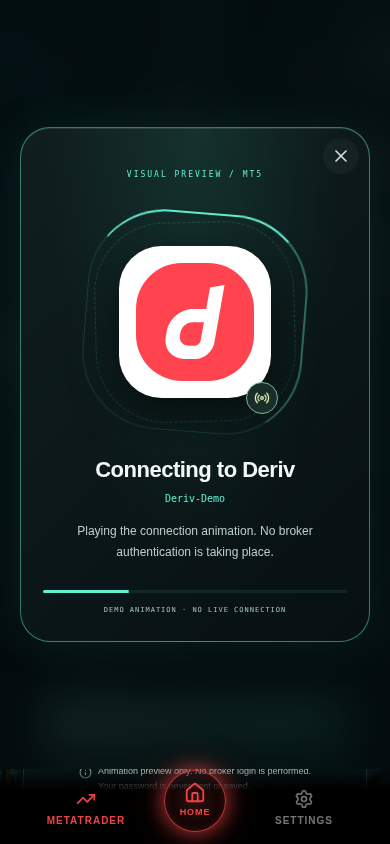
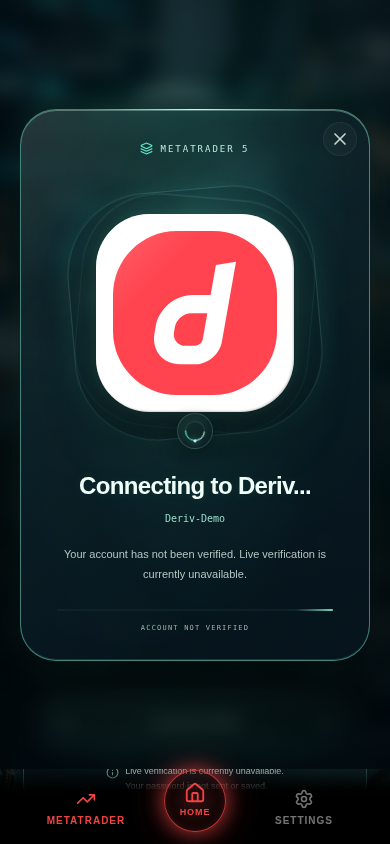
Refine MT5 glass surfaces and cinematic broker connection animation

diff --git a/artifacts/ea-app/src/pages/MetaTraderTab.css b/artifacts/ea-app/src/pages/MetaTraderTab.css
@@ -4,7 +4,7 @@
   position: absolute; inset: 0; overflow: hidden; background: #060d0e; color: #f3f8f7;
   isolation: isolate; font-family: 'Inter', -apple-system, BlinkMacSystemFont, 'Segoe UI', sans-serif;
 }
-.mt5-mentor-background { position: absolute; inset: 0; width: 100%; height: 100%; object-fit: cover; object-position: center; z-index: -3; opacity: .72; }
+.mt5-mentor-background { position: absolute; inset: 0; width: 100%; height: 100%; object-fit: cover; object-position: center; z-index: -3; opacity: .8; }
 .mt5-background-shade { position: absolute; inset: 0; z-index: -2; background: linear-gradient(180deg, rgba(3,10,11,.28), rgba(3,10,11,.38) 36%, rgba(3,10,11,.9) 100%); }
 .mt5-background-shade::after { content: ''; position: absolute; inset: 0; background: radial-gradient(ellipse at 95% 15%, rgba(66,210,179,.13), transparent 56%); }
 .mt5-content { height: 100%; overflow-y: auto; padding: 26px 23px 92px; scrollbar-width: none; }
@@ -18,7 +18,7 @@
 .mt5-status { display: flex; justify-content: center; align-items: center; gap: 7px; padding-top: 16px; font: 500 8px/1.5 ui-monospace, monospace; letter-spacing: 1.2px; color: #e2e9e6; }
 .mt5-status > span:first-child { width: 5px; height: 5px; background: #c0cbc6; border-radius: 50%; }
 .mt5-status-divider { color: #738984; padding: 0 4px; }
-.mt5-preview-label { color: var(--mt5-mint); }
+.mt5-terminal-label { color: var(--mt5-mint); }
 .mt5-intro { padding: 18px 0 19px; text-align: center; }
 .mt5-platform-mark { width: 40px; height: 40px; margin: 0 auto 10px; position: relative; display: grid; place-items: center; color: var(--mt5-mint); background: linear-gradient(145deg,#24483fa6,#0b1919c4); border: 1px solid #91e8d14d; border-radius: 15px; backdrop-filter: blur(8px); }
 .mt5-platform-mark span { position: absolute; right: -4px; bottom: -3px; width: 19px; height: 19px; background: #c9f4ae; border: 3px solid #0a1715; border-radius: 50%; color: #12291b; font-size: 10px; font-weight: 800; display: grid; place-items: center; }
@@ -26,11 +26,11 @@
 .mt5-intro h2 { font-size: clamp(26px, 7vw, 32px); line-height: 1.16; font-weight: 600; letter-spacing: -1px; margin-top: 8px; text-shadow: 0 2px 18px #000b; }
 .mt5-intro h2 span { color: #c9dbd7; font-weight: 350; }
 .mt5-intro p { font-size: 11px; color: #c5d4d0; margin-top: 9px; }
-.mt5-form { padding: 19px 16px 14px; border: 1px solid #b4f2df26; border-radius: 25px; background: linear-gradient(145deg,#112221b8,#050e11cc); backdrop-filter: blur(16px); box-shadow: 0 15px 40px #0004; }
+.mt5-form { padding: 19px 16px 14px; border: 1px solid #8aebd440; border-radius: 25px; position: relative; isolation: isolate; background: linear-gradient(145deg,#26443e73,#071115b8 60%); backdrop-filter: blur(20px) saturate(125%); -webkit-backdrop-filter: blur(20px) saturate(125%); box-shadow: 0 20px 48px #0006, inset 0 1px 0 #d6fff033, 0 0 24px #57e9d00c; }
 .mt5-form-heading { display: flex; align-items: center; justify-content: space-between; font-size: 10px; letter-spacing: 1.8px; font-weight: 650; margin-bottom: 20px; color: #e3ede9; }
 .mt5-form-heading svg { color: #91b7ab; }
 .mt5-form label { display: block; font: 500 8px/1.4 ui-monospace, monospace; letter-spacing: 1.5px; color: #c5d3d0; margin: 12px 2px 7px; }
-.mt5-input-wrap { display: flex; align-items: center; gap: 12px; padding: 0 13px; min-height: 52px; border: 1px solid #63eed278; border-radius: 16px; background: linear-gradient(110deg,#132221d9,#08100fe8); box-shadow: inset 0 1px 0 #ffffff0d; transition: border-color .2s, box-shadow .2s; }
+.mt5-input-wrap { display: flex; align-items: center; gap: 12px; padding: 0 13px; min-height: 52px; border: 1px solid #63eed278; border-radius: 16px; background: linear-gradient(120deg,#31504a40,#08100fba); box-shadow: inset 0 1px 0 #ffffff1c, 0 5px 16px #0002; transition: border-color .2s, box-shadow .2s; }
 .mt5-input-wrap > svg { color: #9ebeb6; flex-shrink: 0; }
 .mt5-input-wrap:focus-within { border-color: var(--mt5-mint); box-shadow: 0 0 0 3px #63eed21c; }
 .mt5-input-wrap input { min-width: 0; flex: 1; width: 100%; border: 0; background: transparent; color: #fff; outline: none; font-size: 16px; height: 51px; }
@@ -39,13 +39,13 @@
 .mt5-screen button:focus-visible { outline: 2px solid var(--mt5-mint); outline-offset: 4px; }
 .mt5-broker-hint { display: flex; align-items: center; gap: 5px; color: var(--mt5-mint); font-size: 9px; margin: 9px 1px 21px; min-height: 14px; }
 .mt5-broker-hint > span:last-child { margin-left: auto; color: #a6beb7; font: 400 6px ui-monospace, monospace; letter-spacing: .6px; }
-.mt5-connect-button { width: 100%; min-height: 56px; padding: 12px 15px; display: flex; align-items: center; justify-content: center; gap: 10px; border: 1px solid #7ef6d5; border-radius: 17px; color: #032b24; background: linear-gradient(115deg,#a3ffe0,#54debf); box-shadow: 0 0 26px #63eed21c, inset 0 1px 0 #fff8; cursor: pointer; transition: transform .15s; }
+.mt5-connect-button { width: 100%; min-height: 56px; padding: 12px 15px; display: flex; align-items: center; justify-content: center; gap: 10px; border: 1px solid #7ef6d599; border-radius: 17px; color: #d2fff1; background: linear-gradient(115deg,#3a807073,#173c3880); backdrop-filter: blur(12px); box-shadow: 0 8px 25px #05282066, 0 0 26px #63eed21c, inset 0 1px 0 #baffdf52; cursor: pointer; transition: transform .15s; }
 .mt5-connect-button span { font-size: 13px; font-weight: 750; letter-spacing: .6px; }
 .mt5-connect-button > svg:last-child { margin-left: auto; }
 .mt5-connect-button > svg:first-child { margin-right: auto; }
 .mt5-connect-button:active { transform: scale(.98); }
-.mt5-prototype-note { display: flex; align-items: flex-start; justify-content: center; gap: 6px; color: #b6cac4; font-size: 9px; line-height: 1.65; margin-top: 13px; }
-.mt5-prototype-note svg { flex-shrink: 0; margin-top: 2px; color: #7eaa9c; }
+.mt5-availability-note { display: flex; align-items: flex-start; justify-content: center; gap: 6px; color: #b6cac4; font-size: 9px; line-height: 1.65; margin-top: 13px; }
+.mt5-availability-note svg { flex-shrink: 0; margin-top: 2px; color: #7eaa9c; }
 .mt5-form-error { display: flex; gap: 7px; align-items: center; color: #ffc4ac; font-size: 11px; line-height: 1.5; margin: -3px 0 14px; }
 .mt5-form-error svg { flex-shrink: 0; }
 .mt5-footer { display: flex; align-items: center; justify-content: center; gap: 12px; margin: 23px 24px 0; color: #9bb5ad; font: 400 8px ui-monospace, monospace; letter-spacing: 2.6px; }
@@ -56,28 +56,39 @@
 .mt5-saved-account p { display: flex; align-items: center; gap: 6px; font-size: 10px; margin-top: 4px; overflow-wrap: anywhere; }
 .mt5-saved-account small { color: #b5c6bf; font-size: 9px; }
 .mt5-saved-account button { margin-top: 6px; font-size: 11px; color: var(--mt5-mint); text-decoration: underline; cursor: pointer; }
-.mt5-modal-backdrop { position: absolute; z-index: 45; inset: 0 0 75px; display: grid; place-items: center; padding: 20px; overflow-y: auto; background: #020b0de8; backdrop-filter: blur(22px); }
-.mt5-connection-modal { position: relative; width: 100%; max-width: 360px; padding: 32px 22px 25px; text-align: center; border: 1px solid #63eed27a; border-radius: 30px; background: radial-gradient(ellipse at 50% 0%,#1b493e80,transparent 60%),linear-gradient(135deg,#101e20,#071012); box-shadow: 0 0 55px #63eed217,inset 0 1px 0 #ffffff1c; }
-.mt5-modal-close { position: absolute; right: 10px; top: 10px; display: grid; place-items: center; width: 36px; height: 36px; border-radius: 50%; color: #cfdfda; background: #ffffff0a; cursor: pointer; }
-.mt5-modal-chip { font: 400 8px ui-monospace, monospace; letter-spacing: 2px; color: var(--mt5-mint); }
-.mt5-broker-stage { position: relative; display: grid; place-items: center; width: min(220px, 100%); aspect-ratio: 1; margin: 28px auto 25px; }
-.mt5-broker-logo { position: relative; display: grid; place-items: center; width: 69%; aspect-ratio: 1; border-radius: 28%; background: linear-gradient(135deg,#214b40,#101d21); color: var(--mt5-mint); border: 1px solid #8cb8a859; box-shadow: 0 18px 45px #0009; }
-.mt5-broker-logo--image { background: #fff; padding: 16px; border: 1px solid #ffffff8c; }
-.mt5-broker-logo img { width: 100%; height: 100%; object-fit: contain; border-radius: 12px; }
-.mt5-orbit { position: absolute; inset: 0; border: 1px solid #63eed226; border-radius: 35%; }
-.mt5-orbit--inner { inset: 10px; border-style: dashed; border-color: #63eed22e; transform: rotate(12deg); }
-.is-connecting .mt5-orbit--outer { border-top: 2px solid var(--mt5-mint); border-right: 2px solid #63eed266; animation: mt5-orbit 2.6s linear infinite; }
-.is-connecting .mt5-orbit--inner { animation: mt5-orbit 8s linear infinite reverse; }
-.mt5-stage-status { position: absolute; bottom: 18px; right: 27px; width: 32px; height: 32px; display: grid; place-items: center; background: #1b2d29; border: 1px solid #6bb99f; color: #d9efb2; border-radius: 50%; }
-.mt5-connection-modal h3 { font-size: 22px; line-height: 1.2; letter-spacing: -.5px; font-weight: 600; overflow-wrap: anywhere; }
-.mt5-dialog-server { font: 400 10px/1.6 ui-monospace,monospace; color: var(--mt5-mint); margin: 8px 0 14px; overflow-wrap: anywhere; }
-#mt5-dialog-description { color: #bbcdc7; font-size: 12px; line-height: 1.75; }
-.mt5-progress-track { height: 3px; background: #63eed217; border-radius: 10px; overflow: hidden; margin-top: 27px; }
-.mt5-progress-track span { display: block; width: 40%; height: 100%; background: var(--mt5-mint); animation: mt5-progress 1.7s ease-in-out infinite alternate; }
-.mt5-progress-caption { display: block; color: #a9c4b8; font: 400 7px/1.5 ui-monospace,monospace; letter-spacing: 1px; margin-top: 12px; }
-.mt5-modal-return { display: flex; align-items: center; justify-content: center; gap: 8px; background: #63eed21c; border: 1px solid #63eed280; border-radius: 13px; width: 100%; padding: 13px 9px; margin-top: 22px; color: #c5f7e7; font-size: 12px; cursor: pointer; }
+.mt5-form::before { content: ''; position: absolute; z-index: -1; inset: 0; border-radius: inherit; pointer-events: none; background: linear-gradient(122deg, #e6fff315, transparent 20%, transparent 75%, #78f4d90a); }
+.mt5-modal-backdrop { position: absolute; z-index: 45; inset: 0 0 75px; display: grid; place-items: center; padding: 20px; overflow-y: auto; background: radial-gradient(ellipse at 50% 42%, #083a333d, #01080dc9 85%); backdrop-filter: blur(9px); -webkit-backdrop-filter: blur(9px); }
+.mt5-connection-modal { position: relative; isolation: isolate; width: 100%; max-width: 360px; padding: 28px 24px 26px; text-align: center; border: 1px solid #7ef4db7a; border-radius: 36px; background: linear-gradient(145deg,#668d8c28, #0d242bd4 40%, #051019e0); backdrop-filter: blur(28px) saturate(135%); -webkit-backdrop-filter: blur(28px) saturate(135%); box-shadow: 0 35px 80px #0009, 0 0 55px #50dfbf15, inset 0 1px 0 #d4fff154, inset 0 -1px 0 #64f7d629; animation: mt5-panel-arrive .65s cubic-bezier(.16,1,.3,1) both; }
+.mt5-connection-modal::before { content: ''; position: absolute; pointer-events: none; z-index: -1; inset: 0; border-radius: inherit; background: linear-gradient(125deg, #e3fff01a, transparent 20%, transparent 65%, #63e8cf06), radial-gradient(ellipse at 50% 25%,#4df3d01a,transparent 64%); }
+.mt5-connection-modal::after { content: ''; position: absolute; pointer-events: none; top: -1px; left: 18%; width: 64%; height: 1px; background: linear-gradient(90deg,transparent,#c6fff2,transparent); box-shadow: 0 0 15px #67f9d97a; }
+.mt5-modal-close { position: absolute; right: 12px; top: 12px; display: grid; place-items: center; width: 34px; height: 34px; border-radius: 50%; color: #c4d7d2; background: #ffffff08; border: 1px solid #ffffff0f; cursor: pointer; }
+.mt5-modal-chip { display: inline-flex; align-items: center; gap: 7px; font: 400 9px ui-monospace, monospace; letter-spacing: 2px; color: #c2e9df; }
+.mt5-modal-chip svg { color: var(--mt5-mint); }
+.mt5-broker-stage { position: relative; display: grid; place-items: center; width: min(248px, 100%); aspect-ratio: 1; margin: 27px auto 35px; }
+.mt5-broker-stage::before { content: ''; position: absolute; inset: 14%; border-radius: 50%; background: #68ffe82b; filter: blur(29px); }
+.mt5-broker-reveal { position: relative; display: grid; place-items: center; width: 80%; aspect-ratio: 1; animation: mt5-logo-arrive 1.65s cubic-bezier(.16,1,.3,1) both; }
+.mt5-broker-reveal::after { content: ''; pointer-events: none; position: absolute; inset: 0; border-radius: 27%; background: linear-gradient(135deg,#fff3,transparent 32%,transparent 76%,#ffffff0c); box-shadow: inset 1px 1px 1px #fff8, inset -1px -1px 2px #0003, 0 0 24px #85ffe31a; }
+.mt5-broker-logo { position: relative; display: grid; place-items: center; width: 100%; aspect-ratio: 1; border-radius: 27%; background: linear-gradient(135deg,#214b40,#101d21); color: var(--mt5-mint); border: 1px solid #b3ffee65; box-shadow: 0 22px 48px #0009, 0 0 0 5px #83e9ce08; }
+.mt5-broker-logo--image { padding: 16px; border: 1px solid #ffffff70; }
+.mt5-broker-logo img { width: 100%; height: 100%; object-fit: contain; border-radius: 16px; }
+.mt5-orbit { position: absolute; inset: 0; border: 1px solid #89f7dd30; border-radius: 33%; transform: rotate(-5deg); box-shadow: inset 0 1px 0 #c9fff01a; }
+.mt5-orbit--inner { inset: 7px; border-color: #81edd812; transform: rotate(5deg); }
+.is-connecting .mt5-orbit--outer { animation: mt5-halo-breathe 3s ease-in-out infinite; }
+.mt5-stage-status { position: absolute; bottom: -12px; left: 50%; transform: translateX(-50%); width: 36px; height: 36px; display: grid; place-items: center; background: linear-gradient(145deg,#193731cc,#0a1b22); border: 1px solid #b1ffe52e; box-shadow: 0 4px 14px #0004; color: #c6d8c4; border-radius: 50%; }
+.mt5-small-spinner { position: relative; width: 20px; height: 20px; border: 1.5px solid #71ebd327; border-top-color: #bcffeb; border-right-color: #63eed2; border-radius: 50%; box-shadow: 0 0 10px #63eed217; animation: mt5-orbit 1.3s linear infinite; }
+.mt5-small-spinner::after { content: ''; position: absolute; width: 3px; height: 3px; top: 0; right: 1px; border-radius: 50%; background: #c4ffef; box-shadow: 0 0 7px #80ffe5; }
+.mt5-connection-modal h3 { font-size: 24px; line-height: 1.2; letter-spacing: -.65px; font-weight: 550; overflow-wrap: anywhere; color: #f1fff9; text-shadow: 0 1px 12px #91ffe51a; }
+.mt5-dialog-server { font: 400 10px/1.6 ui-monospace,monospace; color: #99dbc9; margin: 10px 0 18px; overflow-wrap: anywhere; }
+#mt5-dialog-description { color: #b3c5c2; font-size: 11px; line-height: 1.8; max-width: 275px; margin: 0 auto; }
+.mt5-progress-track { height: 2px; background: #b4f8df0c; border-radius: 10px; overflow: hidden; margin: 25px 12px 0; }
+.mt5-progress-track span { display: block; width: 34%; height: 100%; background: linear-gradient(90deg,transparent,#8bffe3,transparent); box-shadow: 0 0 12px #63eed280; animation: mt5-progress 2s ease-in-out infinite alternate; }
+.mt5-progress-caption { display: block; color: #9ab6ad; font: 400 7px/1.5 ui-monospace,monospace; letter-spacing: 1.2px; margin-top: 12px; }
+.mt5-modal-return { display: flex; align-items: center; justify-content: center; gap: 8px; background: linear-gradient(135deg,#7cf3d821,#18372f70); border: 1px solid #63eed261; border-radius: 15px; width: 100%; padding: 14px 9px; margin-top: 22px; color: #d1f4e9; font-size: 12px; cursor: pointer; box-shadow: inset 0 1px 0 #d5fff015; }
+@keyframes mt5-panel-arrive { from { opacity: 0; transform: translateY(15px) scale(.96); } to { opacity: 1; transform: translateY(0) scale(1); } }
+@keyframes mt5-logo-arrive { from { opacity: 0; transform: translateY(15px) scale(.72); filter: blur(7px); } 65% { opacity: 1; filter: blur(0); } to { opacity: 1; transform: translateY(0) scale(1); filter: blur(0); } }
+@keyframes mt5-halo-breathe { 0%,100% { opacity: .48; box-shadow: 0 0 16px #63eed208; } 50% { opacity: 1; box-shadow: 0 0 22px #63eed219; } }
 @keyframes mt5-orbit { to { transform: rotate(360deg); } }
-@keyframes mt5-progress { from { transform: translateX(-30%); } to { transform: translateX(180%); } }
-@media (max-width: 360px) { .mt5-content { padding: 19px 16px 90px; } .mt5-form { padding: 17px 12px 14px; } .mt5-broker-hint > span:last-child { display: none; } .mt5-connection-modal { padding: 32px 17px 24px; } }
-@media (max-height: 740px) { .mt5-topline { margin-bottom: 17px; } .mt5-intro { padding: 19px 0; } .mt5-intro h2 { font-size: 26px; } .mt5-intro p { margin-top: 5px; } .mt5-broker-stage { width: 165px; margin: 20px auto; } }
+@keyframes mt5-progress { from { transform: translateX(-70%); } to { transform: translateX(260%); } }
+@media (max-width: 360px) { .mt5-content { padding: 19px 16px 90px; } .mt5-form { padding: 17px 12px 14px; } .mt5-broker-hint > span:last-child { display: none; } .mt5-modal-backdrop { padding: 16px; } .mt5-connection-modal { padding: 25px 17px 23px; border-radius: 30px; } .mt5-connection-modal h3 { font-size: 21px; } }
+@media (max-height: 740px) { .mt5-topline { margin-bottom: 17px; } .mt5-intro { padding: 19px 0; } .mt5-intro h2 { font-size: 26px; } .mt5-intro p { margin-top: 5px; } .mt5-broker-stage { width: 158px; margin: 20px auto 28px; } .mt5-connection-modal { padding-top: 22px; padding-bottom: 20px; } .mt5-dialog-server { margin: 8px 0 12px; } #mt5-dialog-description { font-size: 10px; } .mt5-progress-track { margin-top: 18px; } }
 @media (prefers-reduced-motion: reduce) { .mt5-screen *, .mt5-screen *::before, .mt5-screen *::after { animation: none !important; transition: none !important; } }

diff --git a/artifacts/ea-app/src/pages/MetaTraderTab.tsx b/artifacts/ea-app/src/pages/MetaTraderTab.tsx
@@ -7,7 +7,7 @@ import { requestJson } from "@/lib/request";
 import BrokerLogo from "@/components/mt5/BrokerLogo";
 import "./MetaTraderTab.css";
 
-type PreviewState = "idle" | "connecting" | "unverified";
+type ConnectionState = "idle" | "connecting" | "unverified";
 interface SavedAccount { login: string; server: string }
 
 export default function MetaTraderTab() {
@@ -16,7 +16,7 @@ export default function MetaTraderTab() {
   const [password, setPassword] = useState("");
   const [server, setServer] = useState("");
   const [showPassword, setShowPassword] = useState(false);
-  const [state, setState] = useState<PreviewState>("idle");
+  const [state, setState] = useState<ConnectionState>("idle");
   const [error, setError] = useState("");
   const [saved, setSaved] = useState<SavedAccount | null>(null);
   const [savedError, setSavedError] = useState(false);
@@ -76,7 +76,7 @@ export default function MetaTraderTab() {
     if (controller.current && !controller.current.signal.aborted && state === "connecting") return;
     const message = validateMt5Preview(login, password, server);
     if (message || !clientToken) {
-      setError(message || "Sign in to preview your MT5 connection.");
+      setError(message || "Sign in to manage your MT5 connection.");
       return;
     }
     setError("");
@@ -105,7 +105,7 @@ export default function MetaTraderTab() {
         </header>
 
         <div className="mt5-account-heading"><span className="mt5-heading-dot" />MT5 ACCOUNT<span className="mt5-version">05</span></div>
-        <div className="mt5-status"><span /> NOT VERIFIED <span className="mt5-status-divider">/</span><span className="mt5-preview-label">VISUAL PREVIEW</span></div>
+        <div className="mt5-status"><span /> NOT CONNECTED <span className="mt5-status-divider">/</span><span className="mt5-terminal-label">METATRADER 5</span></div>
 
         <div className="mt5-intro">
           <div className="mt5-platform-mark" aria-hidden="true"><Layers3 size={28} strokeWidth={1.4} /><span>5</span></div>
@@ -122,7 +122,7 @@ export default function MetaTraderTab() {
 
           <label htmlFor="mt5-password">PASSWORD</label>
           <div className="mt5-input-wrap"><LockKeyhole size={18} /><input id="mt5-password" type={showPassword ? "text" : "password"} autoComplete="off"
-            value={password} onChange={e => setPassword(e.target.value)} placeholder="Use a demo password for this preview" required />
+            value={password} onChange={e => setPassword(e.target.value)} placeholder="MT5 account password" required />
             <button type="button" className="mt5-eye" aria-label={showPassword ? "Hide password" : "Show password"} aria-pressed={showPassword} onClick={() => setShowPassword(v => !v)}>
               {showPassword ? <EyeOff size={19} /> : <Eye size={19} />}
             </button>
@@ -134,11 +134,11 @@ export default function MetaTraderTab() {
           <datalist id="mt5-broker-hints">
             {["Exness-MT5Real1", "Deriv-Demo", "ICMarketsSC-MT5", "Pepperstone-MT5-Live01", "XMGlobal-MT5", "HFMarketsSV-Live", "FBS-Real", "Tickmill-Live", "ForexTimeFXTM-Live"].map(value => <option key={value} value={value} />)}
           </datalist>
-          <div className="mt5-broker-hint"><Radio size={12} /><span>{broker ? `${broker.name} detected` : "Enter the server from your broker"}</span><span>NAME HINT ONLY</span></div>
+          <div className="mt5-broker-hint"><Radio size={12} /><span>{broker ? `${broker.name} detected` : "Enter the server from your broker"}</span><span>MT5 SERVER</span></div>
 
           {error && <p className="mt5-form-error" role="alert"><ShieldAlert size={15} />{error}</p>}
           <button ref={connectButton} type="submit" className="mt5-connect-button"><Shield size={18} /><span>Connect MT5</span><ArrowRight size={18} /></button>
-          <p className="mt5-prototype-note"><Info size={13} /><span>Animation preview only. No broker login is performed.<br />Your password is never sent or saved.</span></p>
+          <p className="mt5-availability-note"><Info size={13} /><span>Live verification is currently unavailable.<br />Your password is not sent or saved.</span></p>
         </form>
 
         {(saved || savedError) && <aside className="mt5-saved-account">
@@ -156,20 +156,20 @@ export default function MetaTraderTab() {
           else if (!event.shiftKey && document.activeElement === last) { event.preventDefault(); first.focus(); }
         }
       }}>
-        <div className="mt5-connection-modal" role="dialog" aria-modal="true" aria-labelledby="mt5-dialog-title" aria-describedby="mt5-dialog-description">
-          <button ref={closeButton} className="mt5-modal-close" type="button" aria-label={state === "connecting" ? "Cancel preview" : "Close preview"} onClick={closePreview}><X size={20} /></button>
-          <span className="mt5-modal-chip">VISUAL PREVIEW / MT5</span>
+        <div className="mt5-connection-modal" data-state={state} role="dialog" aria-modal="true" aria-labelledby="mt5-dialog-title" aria-describedby="mt5-dialog-description">
+          <button ref={closeButton} className="mt5-modal-close" type="button" aria-label={state === "connecting" ? "Cancel connection" : "Close connection details"} onClick={closePreview}><X size={20} /></button>
+          <span className="mt5-modal-chip"><Layers3 size={13} /> METATRADER 5</span>
           <div className={`mt5-broker-stage ${state === "connecting" ? "is-connecting" : ""}`}>
             <div className="mt5-orbit mt5-orbit--outer" /><div className="mt5-orbit mt5-orbit--inner" />
-            <BrokerLogo key={broker?.id ?? "unknown"} broker={broker} />
-            <span className="mt5-stage-status">{state === "connecting" ? <Radio size={16} /> : <ShieldAlert size={16} />}</span>
+            <div className="mt5-broker-reveal"><BrokerLogo key={broker?.id ?? "unknown"} broker={broker} /></div>
+            <span className="mt5-stage-status" aria-hidden="true">{state === "connecting" ? <span className="mt5-small-spinner" /> : <ShieldAlert size={16} />}</span>
           </div>
           <div aria-live="polite" aria-atomic="true">
-            <h3 id="mt5-dialog-title">{state === "connecting" ? `Connecting to ${brokerName}` : "Connection not verified"}</h3>
+            <h3 id="mt5-dialog-title">{state === "connecting" ? `Connecting to ${brokerName}...` : "Live verification unavailable"}</h3>
             <p className="mt5-dialog-server">{server.trim()}</p>
-            <p id="mt5-dialog-description">{state === "connecting" ? "Playing the connection animation. No broker authentication is taking place." : "Live MT5 verification is not available yet. This preview has not connected your account or changed your trading settings."}</p>
+            <p id="mt5-dialog-description">{state === "connecting" ? "Your account has not been verified. Live verification is currently unavailable." : "Your account has not been connected. Live MT5 verification is not available yet. Your saved account and trading settings are unchanged."}</p>
           </div>
-          {state === "connecting" ? <><div className="mt5-progress-track"><span /></div><span className="mt5-progress-caption">DEMO ANIMATION · NO LIVE CONNECTION</span></> : <button className="mt5-modal-return" type="button" onClick={closePreview}><RotateCcw size={16} /> Back to account details</button>}
+          {state === "connecting" ? <><div className="mt5-progress-track"><span /></div><span className="mt5-progress-caption">ACCOUNT NOT VERIFIED</span></> : <button className="mt5-modal-return" type="button" onClick={closePreview}><RotateCcw size={16} /> Back to account details</button>}
         </div>
       </div>}
     </section>

diff --git a/docs/mt5-connection-preview.md b/docs/mt5-connection-preview.md
@@ -1,8 +1,8 @@
 # MT5 Connections visual prototype
 
-The real client app at `/ea-app/` now uses a glass and mint MT5 account screen over `useApp().bgImageUrl`. That value comes from the authenticated client's linked mentor in `/api/app/dashboard`; there is no hardcoded screen background. Missing/broken mentor images use the dark gradient surface. The existing navigation and mentor name remain in place.
+The real client app at `/ea-app/` now uses a dark translucent glass MT5 account screen with turquoise edges, soft reflections and lighting over `useApp().bgImageUrl`. That value comes from the authenticated client's linked mentor in `/api/app/dashboard`; there is no hardcoded screen background. Missing/broken mentor images use the dark gradient surface. The existing navigation and mentor name remain in place.
 
-**This change is a visual prototype, not an MT5 authentication implementation.** The Connect MT5 action plays a cancellable 3.2-second animation and always finishes at **Connection not verified**. The form, animation and outcome explicitly label this limitation. It never calls connect/disconnect endpoints, saves credentials, changes trading settings, or marks the account connected. Use a demo password. The password is cleared when the preview begins, closes, or the user leaves the tab.
+**This change is a visual prototype, not an MT5 authentication implementation.** The Connect MT5 action plays a cancellable 3.2-second animation and always finishes at **Live verification unavailable**. The form contains a quiet availability note, and the final message explicitly confirms the account has not been connected. Prominent development labels ("Visual Preview", "Demo Connection" and similar) are not part of the product UI. It never calls connect/disconnect endpoints, saves credentials, changes trading settings, or marks the account connected. Use a demo password. The password is cleared when the preview begins, closes, or the user leaves the tab.
 
 Existing saved account details are read from the unchanged `/api/app/trading-controls` endpoint and labelled unverified. A stored historical `mt5Connected` flag is not presented as proof of a live connection. Existing records are never disconnected, deleted, reassigned or rewritten by this screen. API implementations, licensing/authentication, schema, database and trading code are unchanged.
 
@@ -12,9 +12,9 @@ These screenshots show the actual React app in Chromium at 390 × 844. The local
 
 | Account screen | Connection animation / real Exness logo | Honest outcome |
 | --- | --- | --- |
-| ![MT5 account screen](previews/mt5/account-mobile.png) | ![Connecting to Exness with its authentic local logo](previews/mt5/connecting-exness-mobile.png) | ![Connection not verified](previews/mt5/unverified-mobile.png) |
+| ![MT5 account screen](previews/mt5/account-mobile.png) | ![Connecting to Exness with its authentic local logo](previews/mt5/connecting-exness-mobile.png) | ![Live verification unavailable](previews/mt5/unverified-mobile.png) |
 
-Nothing has been deployed or merged. Approve the visual design before deploying the existing Pages project. No database migration, seed, schema push, new service or runtime secret is required.
+The latest glass and animation refinement is for visual approval; this task has not merged or deployed it. Approve the updated visual design before deploying the existing Pages project. No database migration, seed, schema push, new service or runtime secret is required.
 
 ## Broker identities and logo provenance
 
@@ -23,6 +23,12 @@ Nothing has been deployed or merged. Approve the visual design before deploying 
 Exness, Deriv, XM, IC Markets, Pepperstone, HFM, FBS, Tickmill, FXTM, OANDA and AvaTrade each have their own real local logo. Only unknown brokers display the building fallback. An unexpected local asset error is explicitly labelled with the recognised broker name and a retry option rather than substituting a generic icon. The app does not recolour or redraw broker marks. Light-colour marks receive a dark backing inside the same logo tile so they remain readable.
 
 See [pinned asset provenance, attribution and licence notes](../artifacts/ea-app/src/assets/brokers/README.md) and the [SHA-256 manifest](../artifacts/ea-app/src/assets/brokers/manifest.json). The real files, not test substitutes, are decoded in Chromium with third-party access blocked, including an Exness animation screenshot and separate Deriv/XM/IC Markets captures. Broker images are no longer a deployment-time third-party availability dependency.
+
+## Glass connection animation
+
+The connection panel is a translucent glass surface over the mentor-branded screen, with restrained turquoise edge lighting, soft reflections and a blurred backdrop. The original bundled broker artwork remains unchanged. Its larger rounded-square tile fades and grows into view over 1.65 seconds, with a small circular spinner and rotating glow beneath it. The spinner runs only in the `connecting` state; the final unavailable state stops it.
+
+The visual phase is exposed through `data-state` and remains separate from the cancellable adapter result. There is no successful state in this adapter. Future real backend results can drive the existing presentation without using the animation's completion as proof of authentication. Reduced-motion users see the complete logo immediately, without the entrance, pulse, rotation or progress animation. Closing or leaving the tab still cancels the pending attempt and clears the password.
 
 ## Future backend integration boundary
 
@@ -35,7 +41,7 @@ A future separately reviewed verification adapter must authenticate the client a
 - TypeScript project/library build plus ea-app, ea-cloud and api-server checks.
 - Mobile and website Vite production builds and combined Pages routing verification.
 - Node tests for detection (including legacy/regional aliases, unknowns and spoofed strings), account validation, finite unverified completion and cancellation; existing loading, Pages, storage and bootstrap unit suites.
-- Browser checks at 390 × 844, 320 × 568 and 1280 × 900: linked mentor background, saved account preservation, password toggle/clearing, invalid account numbers, known/unknown brokers, real local logo rendering and unknown-only fallback, honest completion, cancellation, tab cleanup, reduced motion, focus trapping/restoration, no horizontal overflow, no write requests and no runtime errors.
+- Browser checks at 390 × 844, 320 × 568 and 1280 × 900: linked mentor background, saved account preservation, password toggle/clearing, invalid account numbers, known/unknown brokers, real local logo rendering and unknown-only fallback, logo fade/scale and rotating spinner, absence of development labels, honest unavailable completion, cancellation, tab cleanup, reduced motion, focus trapping/restoration, no horizontal overflow, no write requests and no runtime errors.
 
 Run from repository root:
 
